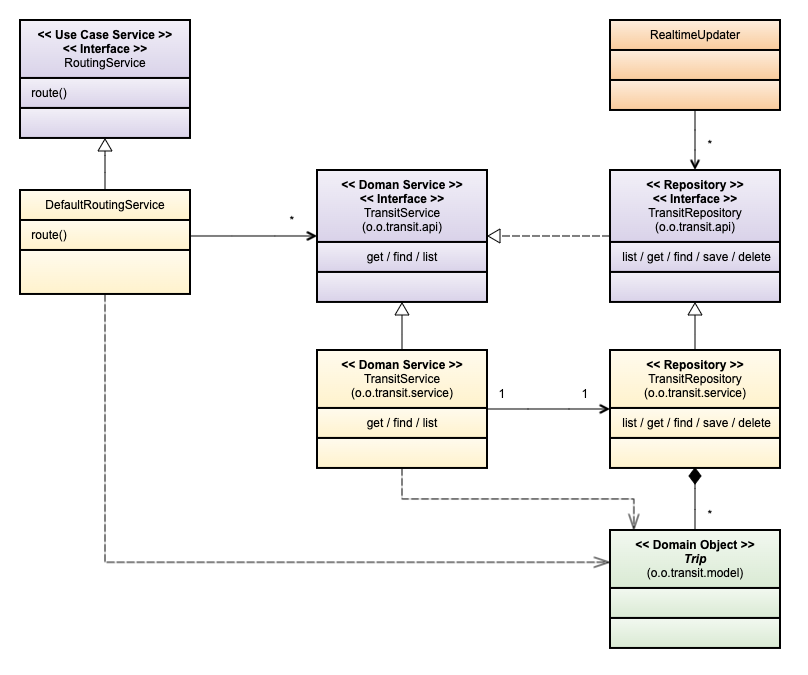
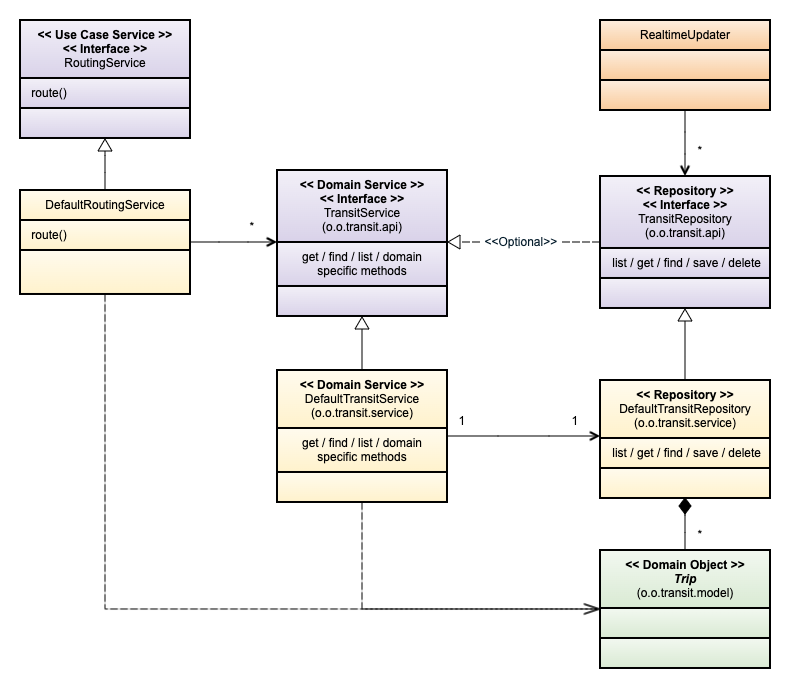
doc: Review update drawing

Changed region(s): [[0.0, 0.0311, 0.9925, 0.9644]]

diff --git a/ARCHITECTURE.md b/ARCHITECTURE.md
@@ -29,9 +29,6 @@ The diagram shows a "generic" version on how we want to model the OTP components
    (insert, save, update and delete). The `Service` is usually a thin layer which delegates 
    to the `Repository`. For small domains you may let the `Repository` implement the `Service` 
    interface.
- - The `Repository` may or may not inherit from the `DomainService` interface. If the domain
-   service is a simple domain model with few specialized business methods you may save a few 
-   lines of code this way. 
 
 > **Note!** The above is the goal, the current package structure needs cleanup.
 
